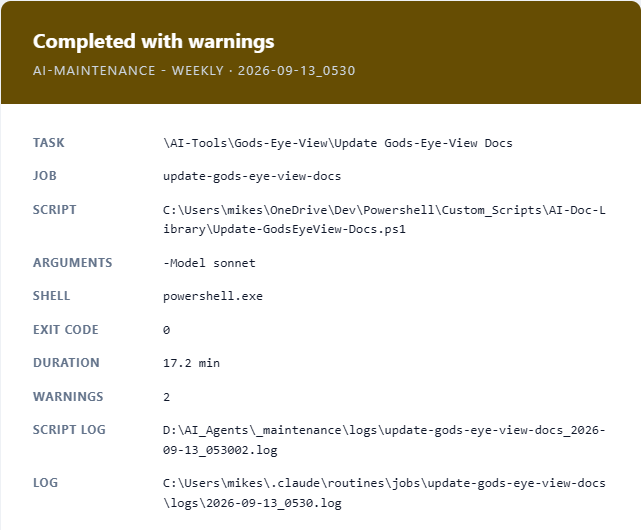
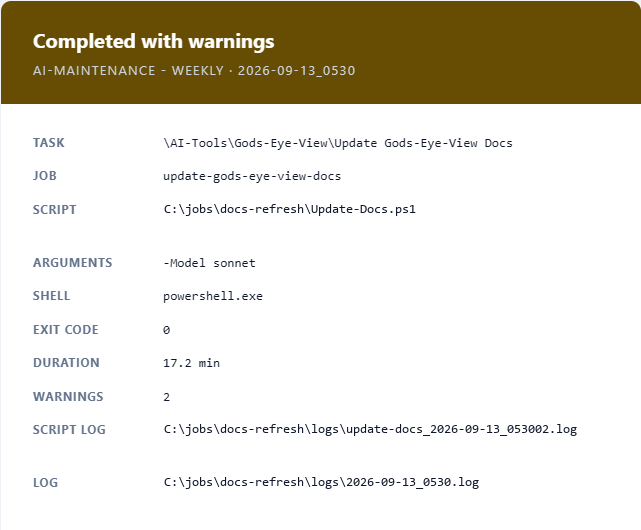
Redact local paths from a gallery image; raise house-style faint text
The html-email-templates gallery image showed local user and OneDrive
paths; its script and log rows now read C:\jobs\docs-refresh\. The
web-house-style dark --fg-4 moves from #71717a (3.8:1 on cards) to
#7e7e87 (4.6:1), matching the showcase, and --fg-5 is decorative-only.

Changed region(s): [[0.2496, 0.7849, 0.936, 0.8755], [0.2496, 0.3925, 0.936, 0.4528], [0.2496, 0.9057, 0.936, 0.966]]

diff --git a/skills/core/web/web-house-style/assets/app-shell.html b/skills/core/web/web-house-style/assets/app-shell.html
@@ -32,7 +32,7 @@
       --bar: rgba(6,6,6,.82); --bar-line: #18181b; --rail-bg: #08080a; --srcbar-bg: #0a0a0b;
       --switch-bg: rgba(39,39,42,.6); --pop-bg: #17171b; --pop-shadow: rgba(0,0,0,.7); --thumb: #27272a;
       --line: rgba(63,63,70,.45); --line-2: rgba(63,63,70,.8); --rule: rgba(39,39,42,.6);
-      --fg: #f4f4f5; --fg-2: #d4d4d8; --fg-3: #a1a1aa; --fg-4: #71717a; --fg-5: #52525b;
+      --fg: #f4f4f5; --fg-2: #d4d4d8; --fg-3: #a1a1aa; --fg-4: #7e7e87; --fg-5: #52525b;
       --accent: #22d3ee; --accent-ink: #0b1220;
       --sans: 'Inter', system-ui, -apple-system, 'Segoe UI', sans-serif;
       --mono: 'JetBrains Mono', ui-monospace, 'SFMono-Regular', Menlo, Consolas, monospace;
@@ -80,7 +80,7 @@
     .rail-toggle:hover { color: var(--fg); background: color-mix(in srgb, var(--accent) 10%, transparent); border-color: color-mix(in srgb, var(--accent) 35%, transparent); }
     .rail-toggle svg { width: 17px; height: 17px; }
     .rail-sep { height: 1px; flex: none; background: var(--line-2); margin: 8px 4px; }
-    .rail-glabel { flex: none; padding: 2px 11px 6px; font: 600 10px var(--mono); text-transform: uppercase; letter-spacing: .14em; color: var(--fg-5); white-space: nowrap; }
+    .rail-glabel { flex: none; padding: 2px 11px 6px; font: 600 10px var(--mono); text-transform: uppercase; letter-spacing: .14em; color: var(--fg-4); white-space: nowrap; }
     .rail-btn { position: relative; display: flex; align-items: center; gap: 12px; width: 100%; height: 40px; flex: none; padding: 0 11px; border-radius: 9px; color: var(--fg); font-size: 13px; font-weight: 500; transition: background .15s; }
     .rail-btn svg { width: 18px; height: 18px; flex: none; color: hsl(var(--h) var(--s) var(--l)); }
     .rail-lbl { white-space: nowrap; overflow: hidden; text-overflow: ellipsis; }

diff --git a/skills/core/web/web-house-style/assets/page.html b/skills/core/web/web-house-style/assets/page.html
@@ -31,7 +31,7 @@
       --bar: rgba(6,6,6,.72); --bar-line: rgba(39,39,42,.7); --srcbar-bg: #0a0a0b;
       --menu-bg: #0a0a0c; --switch-bg: rgba(39,39,42,.6); --thumb: #27272a;
       --line: rgba(63,63,70,.45); --line-2: rgba(63,63,70,.8); --line-hover: #52525b; --rule: rgba(39,39,42,.6);
-      --fg: #f4f4f5; --fg-2: #d4d4d8; --fg-3: #a1a1aa; --fg-4: #71717a; --fg-5: #52525b;
+      --fg: #f4f4f5; --fg-2: #d4d4d8; --fg-3: #a1a1aa; --fg-4: #7e7e87; --fg-5: #52525b;
       --accent: #38bdf8; --accent-hover: #7dd3fc; --accent-ink: #0b1220; --glow: rgba(56,189,248,.12);
       --ok: #34d399;
       --sans: 'Inter', system-ui, -apple-system, 'Segoe UI', sans-serif;

diff --git a/skills/core/web/web-house-style/references/design-system.md b/skills/core/web/web-house-style/references/design-system.md
@@ -31,8 +31,8 @@ blocks.
   --thumb: #27272a;
   /* lines */
   --line: rgba(63,63,70,.45);  --line-2: rgba(63,63,70,.8);  --line-hover: #52525b;  --rule: rgba(39,39,42,.6);
-  /* text, brightest to faintest */
-  --fg: #f4f4f5;  --fg-2: #d4d4d8;  --fg-3: #a1a1aa;  --fg-4: #71717a;  --fg-5: #52525b;
+  /* text, brightest to faintest. Contrast on #060606: 18.4 · 13.7 · 7.9 · 5.0 · 2.6 */
+  --fg: #f4f4f5;  --fg-2: #d4d4d8;  --fg-3: #a1a1aa;  --fg-4: #7e7e87;  --fg-5: #52525b;
   --fg-max: #fff;  --on-fg: #09090b;
   /* accent: the site's own hue, 400 weight (sky shown) */
   --accent: #38bdf8;  --accent-hover: #7dd3fc;  --accent-ink: #0b1220;
@@ -76,8 +76,10 @@ html.light {
 }
 ```
 
-`--fg-5` in light is 4.3:1 — use it only for large or decorative text (hints,
-counters). Body text is `--fg-2` or `--fg-3`.
+`--fg-4` is the faintest colour for small text: at least 4.5:1 on every surface in both
+themes (dark `#7e7e87` is 4.6:1 on a card; it was zinc-500 `#71717a`, 3.8:1, until
+2026-11-11). `--fg-5` (dark 2.6:1, light 4.3:1) is for decorative marks only: syntax
+punctuation, dividers, disabled states. Body text is `--fg-2` or `--fg-3`.
 
 ### Accent per site
 
@@ -358,7 +360,7 @@ centred `--pop-bg` panel over `--scrim`, arrow keys + Enter, Esc closes.
 
 **Footer** — one row: the site's domain in mono on the left; GitHub, the org home
 (`ai-automation-tools.dev`), *Cookies* and *Cookie settings* on the right; an optional
-`.fine` disclaimer line under it in `--fg-5`.
+`.fine` disclaimer line under it in `--fg-4`.
 
 **Consent** — public sites load the shared banner and expose its settings link:
 

diff --git a/docs/CHANGELOG.md b/docs/CHANGELOG.md
@@ -33,8 +33,10 @@ Skills named here keep the name they had at the time. The four `-mfs` skills wer
 - `docs/SKILL-IDEAS.md`: the `repo-doc-structure` idea is struck; `repo-docs-builder` covers it. *Phase 3*
 - `docs/ROADMAP.md`: four items that had already shipped are ticked with their evidence: filter-chip `aria-pressed` and the no-JS hero (both 2026-10-19), the homepage URL on the About panel, and the `project-hub-scaffold` drift check (project-hub's `scaffold copy` CI job, since 2026-10-22). *Phase 1, Phase 2*
 - `docs/OPEN-QUESTIONS.md`: private vulnerability reporting stays off on this repo (owner's answer); `SECURITY.md` keeps the email route.
+- `web-house-style`: dark `--fg-4` is `#7e7e87` (was zinc-500 `#71717a`, 3.8:1 on cards), in `design-system.md` and both starters, with the dark contrast ratios noted beside the tokens. `--fg-5` is now decorative-only in both themes, so the footer `.fine` line and the app shell's sidebar group labels use `--fg-4`. The verify checklist covers both themes.
 
 **Site**
+- The `html-email-templates` gallery image no longer shows local paths: the script and log rows read `C:\jobs\docs-refresh\…`.
 - Social preview: `og:image` (`assets/img/og.png`, 1200×630, captured from the page) and a `summary_large_image` `twitter:card`. *Phase 2*
 - Every showcase PNG is WebP now, 967 KB to 319 KB; `web-house-style`'s overview page follows. *Phase 2*
 - Lightbox: Tab stays inside it while open, and each image has its own alt text. `showcase.json` takes an `alts` list for a card's extra images, and `build-showcase.py` writes it into the card as `data-alts`. *Phase 2*

diff --git a/skills/core/web/web-house-style/SKILL.md b/skills/core/web/web-house-style/SKILL.md
@@ -136,7 +136,7 @@ Every rule sits inside `@media (max-width: 600px)`, `(hover: none)` or
 ## Verify
 
 - [ ] Reload in light mode: no dark frame before paint; the address-bar colour follows.
-- [ ] Both themes: every text colour readable (light `--fg-4` and up are ≥ 4.5:1 on `#fafafa`), icons with a black or white mark keep a visible edge.
+- [ ] Both themes: every text colour readable (`--fg-4` and up are ≥ 4.5:1 on every surface in both themes; `--fg-5` never carries small text), icons with a black or white mark keep a visible edge.
 - [ ] `grep -nE '#[0-9a-fA-F]{3,8}|rgba?\(' ` the rules below the token blocks: only token references remain (plus the GitHub button).
 - [ ] The source bar is the first element in `<body>` and links the public repo.
 - [ ] Keyboard: Tab from the top reaches the skip link first; every control shows a focus ring.
